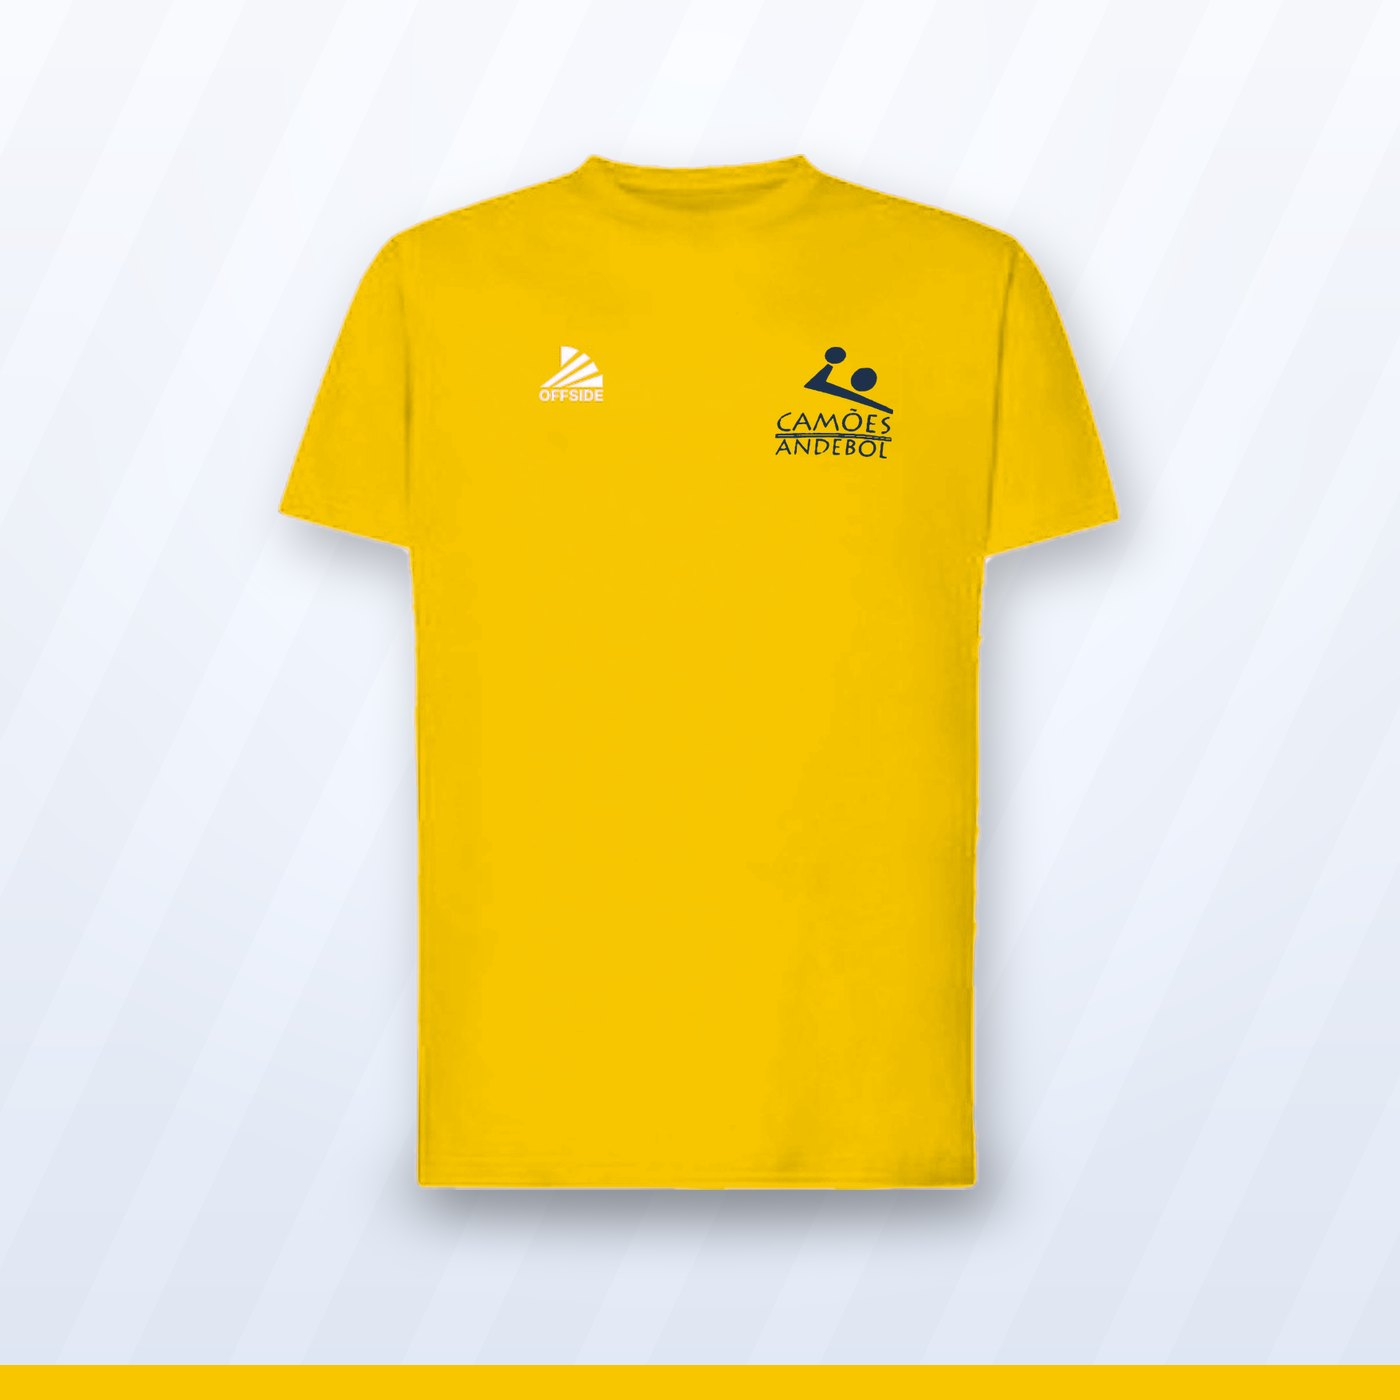
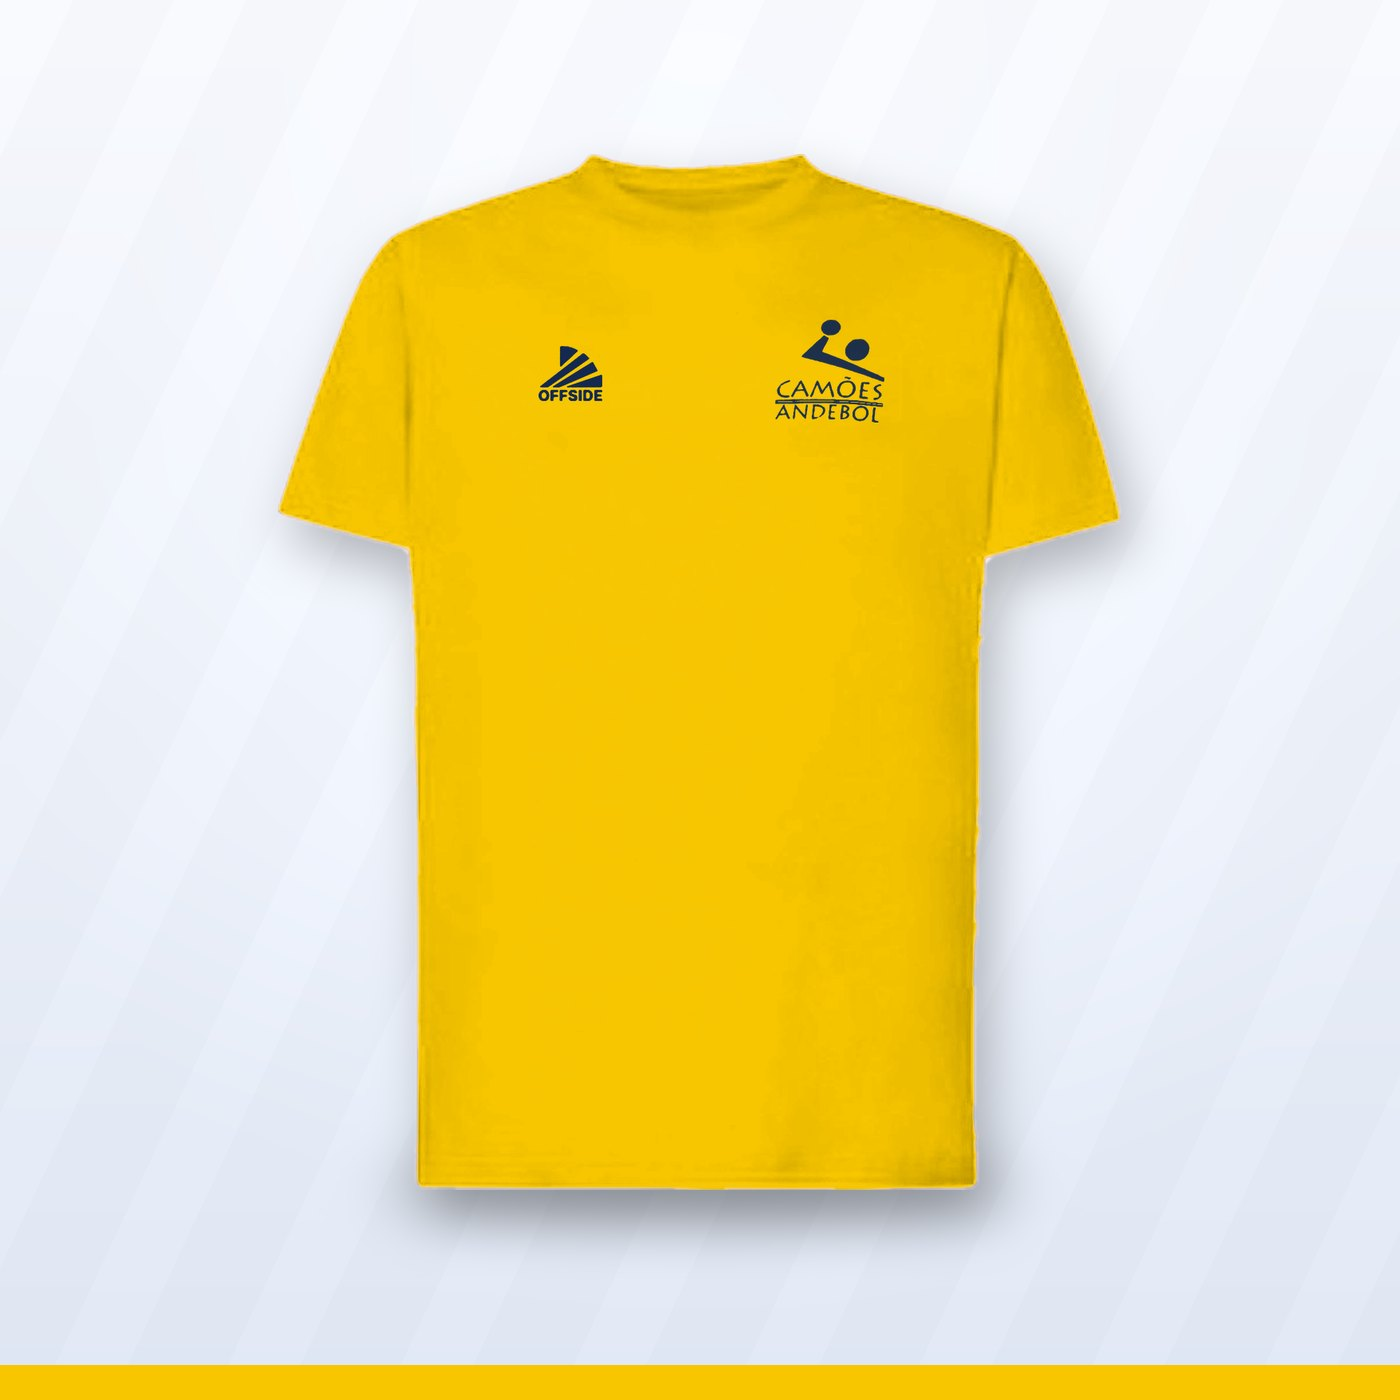
Imagens: logótipo da marca na mesma cor do símbolo do Camões
- Regra aplicada a todos os artigos: o logótipo Offside fica sempre da
  mesma cor que o símbolo do Camões (branco em peças escuras, azul-escuro
  em peças claras)
- O logótipo original é apagado (preenchido com o tecido à volta) e
  substituído por uma versão limpa (scripts/assets/offside-mark.png),
  no mesmo sítio e tamanho — sem restos de vermelho nem contornos
- Fato de treino de saída: símbolo do Camões espelhado em relação ao
  logótipo da marca, à mesma altura, no casaco e nas calças; o mesmo
  alinhamento nas t-shirts, polos e calções

Claude-Session: https://claude.ai/code/session_01CYXiLtVvoxdWRdnvMfLoHt

Changed region(s): [[0.5529, 0.215, 0.645, 0.3379], [0.3686, 0.2457, 0.43, 0.3071]]

diff --git a/scripts/build_product_images.py b/scripts/build_product_images.py
@@ -119,6 +119,51 @@ def to_img(arr):
     return Image.fromarray((np.clip(arr, 0, 1) * 255).astype(np.uint8))
 
 
+OFFSIDE = Image.open("scripts/assets/offside-mark.png")
+
+
+def brand(a, orig, box, dark):
+    """Substitui o logótipo da marca (Offside) por uma versão limpa, na mesma cor do
+    símbolo do Camões. box = (x0, y0, x1, y1) em frações da peça, à volta do logótipo."""
+    h, w, _ = a.shape
+    pad = 0.03
+    x0, x1 = int(max(0, box[0] - pad) * w), int(min(1, box[2] + pad) * w)
+    y0, y1 = int(max(0, box[1] - pad) * h), int(min(1, box[3] + pad) * h)
+    src = orig[y0:y1, x0:x1]
+    fabric = np.median(src.reshape(-1, 3), axis=0)
+    diff = np.abs(src - fabric).max(2)
+    if fabric.max() - fabric.min() < 0.08:  # tecido neutro: a cor do logótipo também conta
+        diff = np.maximum(diff, src.max(2) - src.min(2))
+    logo = ndi.binary_opening(diff > 0.2, iterations=1)
+    ys, xs = np.where(logo)
+    if not len(ys):
+        return a
+    lx0, lx1, ly0, ly1 = xs.min(), xs.max() + 1, ys.min(), ys.max() + 1
+
+    # 1) apagar: preencher a zona do logótipo com o tecido à volta (média ponderada desfocada)
+    hole = ndi.binary_dilation(logo, iterations=max(3, int(w * 0.006))).astype(np.float32)
+    region = a[y0:y1, x0:x1]
+    keep = 1 - hole
+    sigma = max(4, (lx1 - lx0) * 0.25)
+    num = np.stack([ndi.gaussian_filter(region[..., c] * keep, sigma) for c in range(3)], -1)
+    den = ndi.gaussian_filter(keep, sigma)[..., None] + 1e-6
+    filled = num / den
+    region[:] = region * keep[..., None] + filled * hole[..., None]
+
+    # 2) colocar o logótipo limpo, do mesmo tamanho e no mesmo sítio
+    bw, bh = lx1 - lx0, ly1 - ly0
+    scale = min(bw / OFFSIDE.width, bh / OFFSIDE.height)
+    nw, nh = max(1, int(OFFSIDE.width * scale)), max(1, int(OFFSIDE.height * scale))
+    mark = np.asarray(OFFSIDE.resize((nw, nh), Image.LANCZOS), np.float32)[..., 3] / 255
+    cx, cy = x0 + (lx0 + lx1) // 2, y0 + (ly0 + ly1) // 2
+    mx0, my0 = cx - nw // 2, cy - nh // 2
+    color = np.array(NAVY if dark else (250, 250, 250), np.float32) / 255
+    target = a[my0 : my0 + nh, mx0 : mx0 + nw]
+    al = mark[: target.shape[0], : target.shape[1], None]
+    a[my0 : my0 + nh, mx0 : mx0 + nw] = target * (1 - al) + color * al
+    return a
+
+
 def background():
     y, x = np.mgrid[0:SIZE, 0:SIZE].astype(np.float32) / SIZE
     top, bottom = np.array([0.965, 0.972, 0.988]), np.array([0.875, 0.903, 0.952])
@@ -167,25 +212,30 @@ def save(canvas, name):
 
 
 if __name__ == "__main__":
+    BLACK = (28, 28, 30)
     backpack_src = load("bae1f97b-image.png")
     thermal_src = load("b57865a5-image.jpg")
     kit_src = load("da6e5148-image.jpg")
 
-    # Mochila — azul-escuro
+    # Regra: o logótipo da marca (Offside) fica sempre da mesma cor que o símbolo do Camões,
+    # e o símbolo do Camões fica espelhado em relação ao da marca (mesma altura, lado oposto).
+
+    # Mochila — azul-escuro (ambos os logótipos já são brancos)
     rgb, m = cutout(backpack_src, (270, 445, 1250, 1700))
     rgb = recolor(rgb, NAVY, keep_dark=True)
     rgb = apply_logo(rgb, m, 0.76, 0.23, 0.18, dark=False)
     save(place(background(), rgb, m, 0.5, 0.47, 0.8), "mochila-azul-escuro")
 
-    # Camisola térmica — amarelo, branco, azul
+    # Camisola térmica — amarelo, branco, azul (sem logótipo da marca)
     rgb0, m = cutout(thermal_src, (50, 340, 680, 1090))
     for name, color, dark in [("termica-amarelo", YELLOW, True), ("termica-branco", WHITE, True), ("termica-azul", BLUE, False)]:
         rgb = recolor(rgb0, color, keep_dark=False)
         rgb = apply_logo(rgb.copy(), m, 0.66, 0.24, 0.15, dark=dark)
         save(place(background(), rgb, m, 0.5, 0.48, 0.74), name)
 
-    # Colete térmico — cor do catálogo, com o símbolo
-    rgb, m = cutout(thermal_src, (80, 1135, 640, 2010))
+    # Colete térmico — cor do catálogo; marca e símbolo em azul-escuro
+    rgb0, m = cutout(thermal_src, (80, 1135, 640, 2010))
+    rgb = brand(rgb0.copy(), rgb0, (0.42, 0.2, 0.58, 0.29), dark=True)
     rgb = apply_logo(rgb, m, 0.5, 0.5, 0.2, dark=True)
     save(place(background(), rgb, m, 0.5, 0.48, 0.76), "colete")
 
@@ -193,23 +243,25 @@ if __name__ == "__main__":
     shirt0, ms = cutout(kit_src, (60, 90, 790, 950))
     shorts0, mh = cutout(kit_src, (160, 1090, 690, 1690))
     for name, color, dark in [("treino-amarelo", YELLOW, True), ("treino-azul-escuro", NAVY, False)]:
-        shirt = apply_logo(recolor(shirt0, color, keep_dark=False).copy(), ms, 0.7, 0.25, 0.13, dark=dark)
-        shorts = apply_logo(recolor(shorts0, color, keep_dark=False).copy(), mh, 0.21, 0.76, 0.16, dark=dark)
+        shirt = brand(recolor(shirt0, color, keep_dark=False), shirt0, (0.29, 0.21, 0.38, 0.28), dark)
+        shirt = apply_logo(shirt, ms, 0.665, 0.245, 0.12, dark=dark)
+        shorts = brand(recolor(shorts0, color, keep_dark=False), shorts0, (0.83, 0.84, 0.95, 0.94), dark)
+        shorts = apply_logo(shorts, mh, 0.17, 0.88, 0.13, dark=dark)
         c = background()
         c = place(c, shirt, ms, 0.42, 0.37, 0.6)
         c = place(c, shorts, mh, 0.64, 0.75, 0.36)
         save(c, name)
 
-    BLACK = (28, 28, 30)
-
-    # Fato de treino de saída — casaco + calças (algodão), azul-escuro e preto
+    # Fato de treino de saída — casaco + calças (algodão), azul-escuro e preto; logótipos brancos
     fato = load("771780f5-image.jpg")
     jacket0, mj = cutout(fato, (80, 30, 560, 720))
     pants0, mpn = cutout(fato, (150, 780, 480, 1645))
     for name, color in [("fato-saida-azul-escuro", NAVY), ("fato-saida-preto", BLACK)]:
-        jacket = apply_logo(recolor(jacket0, color, keep_dark=False).copy(), mj, 0.73, 0.2, 0.15, dark=False)
+        jacket = brand(recolor(jacket0, color, keep_dark=False), jacket0, (0.24, 0.25, 0.33, 0.31), dark=False)
+        jacket = apply_logo(jacket, mj, 0.715, 0.28, 0.13, dark=False)
         pants = recolor(pants0, color, keep_dark=False, soften=1.0, neutral_fabric=mpn) if color != BLACK else pants0.copy()
-        pants = apply_logo(pants.copy(), mpn, 0.3, 0.42, 0.2, dark=False)
+        pants = brand(pants, pants0, (0.84, 0.22, 1.0, 0.35), dark=False)
+        pants = apply_logo(pants, mpn, 0.11, 0.285, 0.14, dark=False)
         c = background()
         c = place(c, jacket, mj, 0.34, 0.42, 0.56)
         c = place(c, pants, mpn, 0.73, 0.52, 0.82)
@@ -218,7 +270,8 @@ if __name__ == "__main__":
     # T-shirt de algodão — preto, azul-escuro e amarelo
     tee0, mt = cutout(load("ebaa9f98-image.jpg"), (140, 120, 890, 1035))
     for name, color, dark in [("tshirt-preto", BLACK, False), ("tshirt-azul-escuro", NAVY, False), ("tshirt-amarelo", YELLOW, True)]:
-        tee = apply_logo(recolor(tee0, color, keep_dark=False).copy(), mt, 0.66, 0.24, 0.14, dark=dark)
+        tee = brand(recolor(tee0, color, keep_dark=False), tee0, (0.30, 0.18, 0.39, 0.24), dark)
+        tee = apply_logo(tee, mt, 0.655, 0.21, 0.13, dark=dark)
         save(place(background(), tee, mt, 0.5, 0.48, 0.74), name)
 
     # Kit saída — polo + calções da mesma cor
@@ -231,9 +284,12 @@ if __name__ == "__main__":
         ("kit-saida-preto", BLACK, False),
         ("kit-saida-amarelo", YELLOW, True),
     ]:
-        polo = apply_logo(recolor(polo0, color, keep_dark=False).copy(), mp, 0.66, 0.31, 0.15, dark=dark)
+        polo = brand(recolor(polo0, color, keep_dark=False), polo0, (0.30, 0.19, 0.39, 0.26), dark)
+        polo = apply_logo(polo, mp, 0.655, 0.235, 0.13, dark=dark)
         light = sum(color) > 300
-        sh = apply_logo(recolor(shorts2, color, keep_dark=False, soften=1.0 if light else 0.0).copy(), ms2, 0.22, 0.78, 0.16, dark=dark)
+        sh = recolor(shorts2, color, keep_dark=False, soften=1.0 if light else 0.0)
+        sh = brand(sh, shorts2, (0.84, 0.81, 0.95, 0.90), dark)
+        sh = apply_logo(sh, ms2, 0.15, 0.855, 0.13, dark=dark)
         c = background()
         c = place(c, polo, mp, 0.42, 0.37, 0.6)
         c = place(c, sh, ms2, 0.65, 0.75, 0.36)
